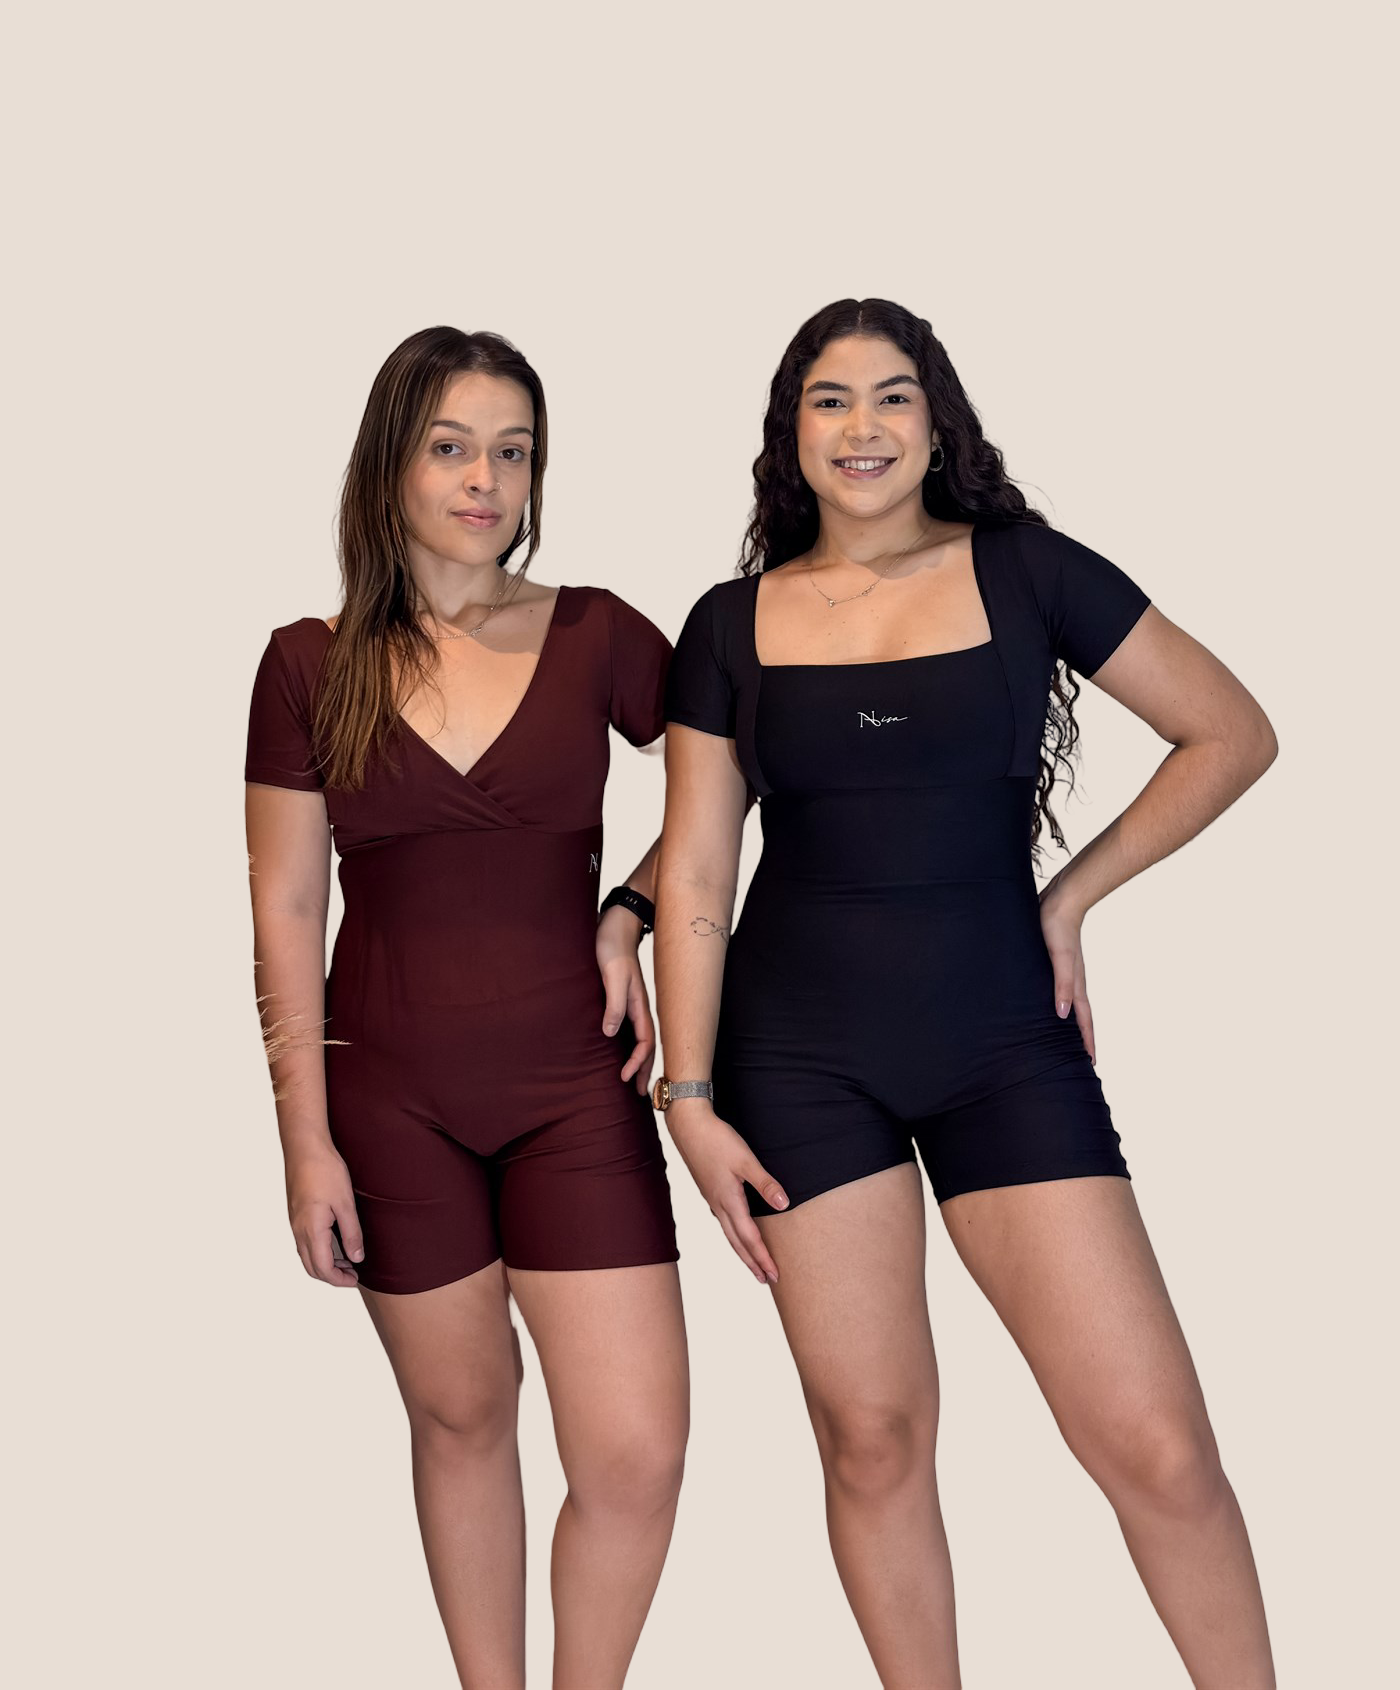
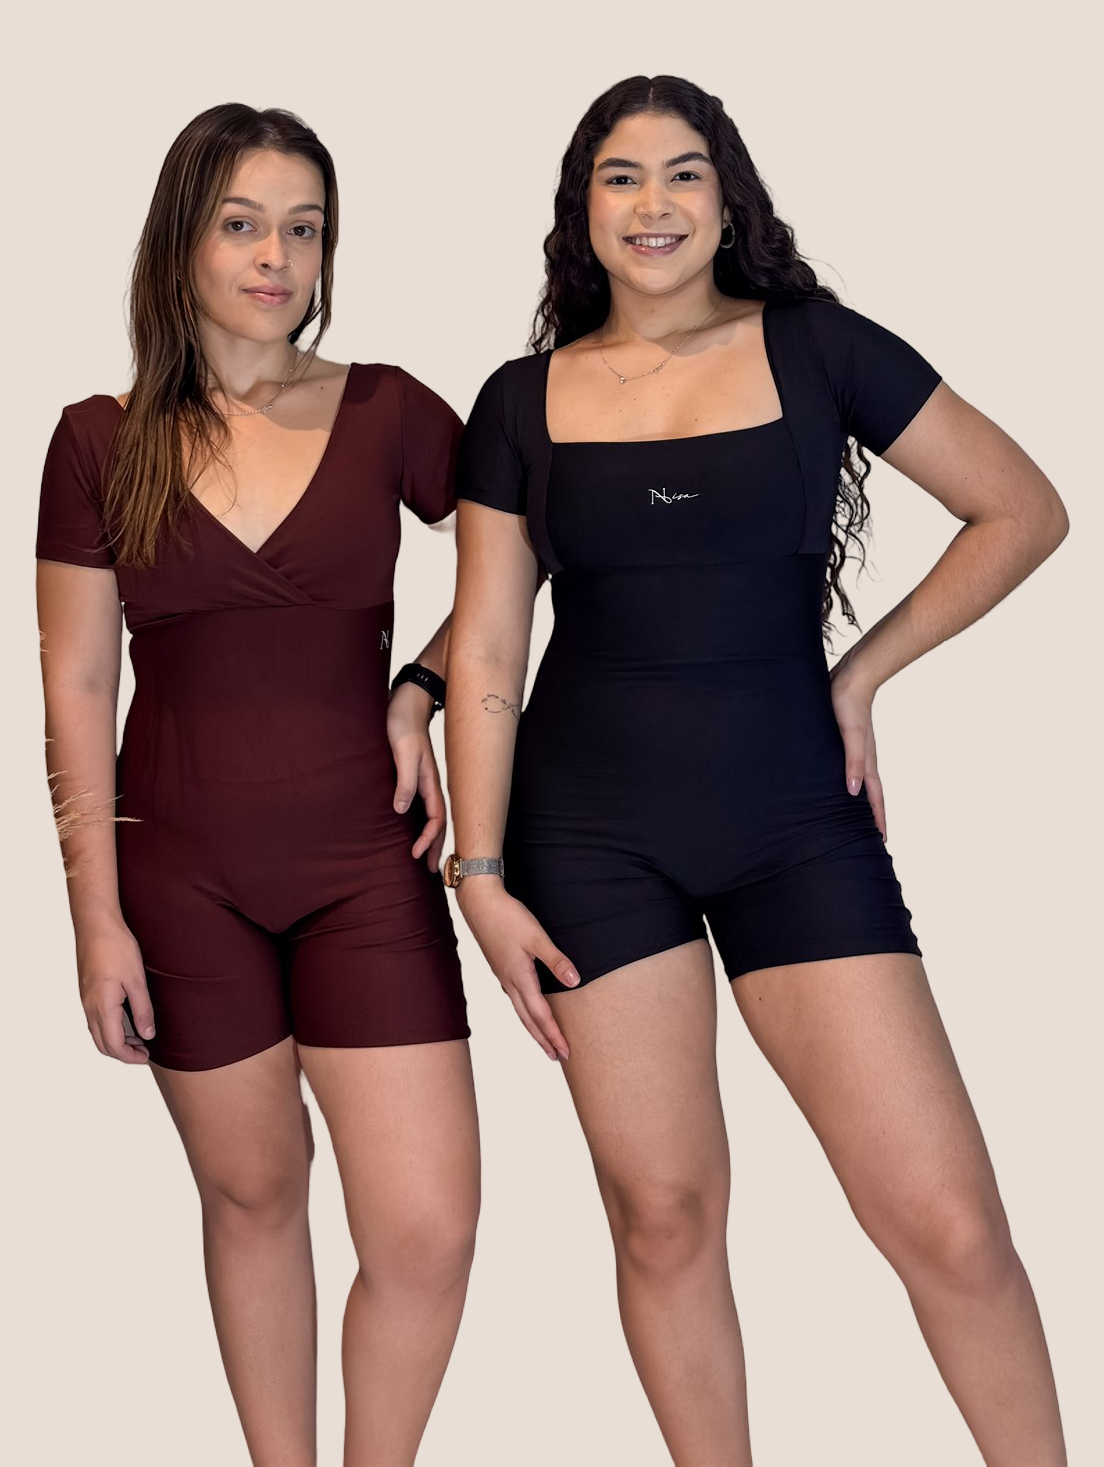
feat(hero): enlarge hero models and bring photo more towards the center

diff --git a/styles.css b/styles.css
@@ -222,11 +222,10 @@ ul {
 
 /* ================= HERO SECTION ================= */
 .hero {
-    --hero-h: clamp(520px, 78vh, 760px);
+    --hero-h: clamp(540px, 80vh, 780px);
     display: grid;
-    /* painel da foto: no máx. metade da tela e no máx. ~1.15x a altura,
-       para a foto nunca virar uma faixa larga demais */
-    grid-template-columns: 1fr min(50%, calc(var(--hero-h) * 1.15));
+    /* Coluna de texto elegante e coluna da foto com espaço amplo para preencher o centro */
+    grid-template-columns: minmax(360px, 42%) 1fr;
     height: var(--hero-h);
     background-color: var(--bg-sec);
     overflow: hidden;
@@ -236,7 +235,8 @@ ul {
     display: flex;
     flex-direction: column;
     justify-content: center;
-    padding: 3.5rem 4% 3.5rem 8%; 
+    padding: 3.5rem 2% 3.5rem 8%;
+    max-width: 580px;
 }
 
 .hero-small-text {
@@ -313,7 +313,7 @@ ul {
     width: 100%;
     height: 100%;
     object-fit: contain;
-    object-position: bottom center;
+    object-position: 32% bottom;
     display: block;
     animation: heroFadeIn 1.1s ease both;
 }
@@ -1260,15 +1260,15 @@ ul {
     .hero-title {
         font-size: 2.8rem;
     }
-    /* Tablet e celular: foto com fundo infinito perfeitamente integrada */
+    /* Tablet e celular: foto com fundo infinito perfeitamente integrada e maior */
     .hero-right {
         width: 100%;
-        aspect-ratio: 14 / 17;
+        aspect-ratio: 11 / 14.5;
         max-height: 85vh;
     }
     .hero-img {
         object-fit: contain;
-        object-position: bottom center;
+        object-position: center bottom;
     }
     .diferenciais {
         flex-direction: column;

diff --git a/index.html b/index.html
@@ -5,7 +5,7 @@
     <meta name="viewport" content="width=device-width, initial-scale=1.0">
     <title>Nisa | Moda Fitness Feminina</title>
     <link rel="icon" href="favicon.jpg" type="image/jpeg">
-    <link rel="stylesheet" href="styles.css?v=20261127d">
+    <link rel="stylesheet" href="styles.css?v=20261127e">
     <!-- Google Fonts -->
     <link rel="preconnect" href="https://fonts.googleapis.com">
     <link rel="preconnect" href="https://fonts.gstatic.com" crossorigin>
@@ -252,6 +252,6 @@
         <span id="toast-message">Peça adicionada à sacola!</span>
     </div>
 
-    <script src="script.js?v=20261127d"></script>
+    <script src="script.js?v=20261127e"></script>
 </body>
 </html>
